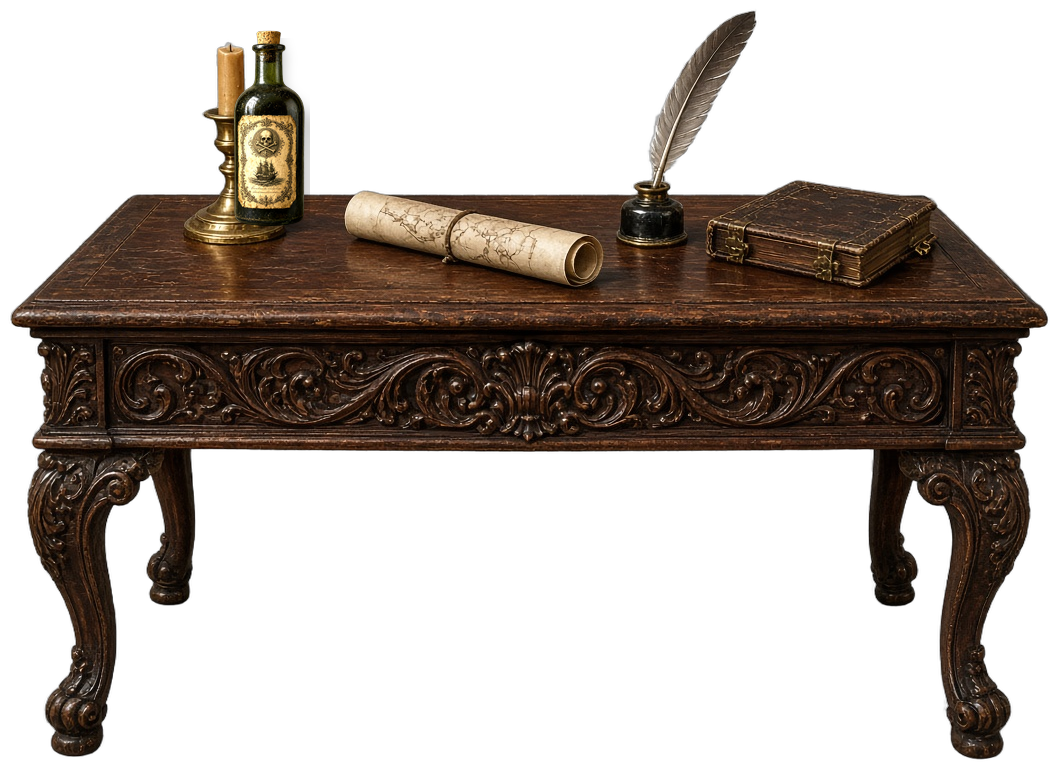
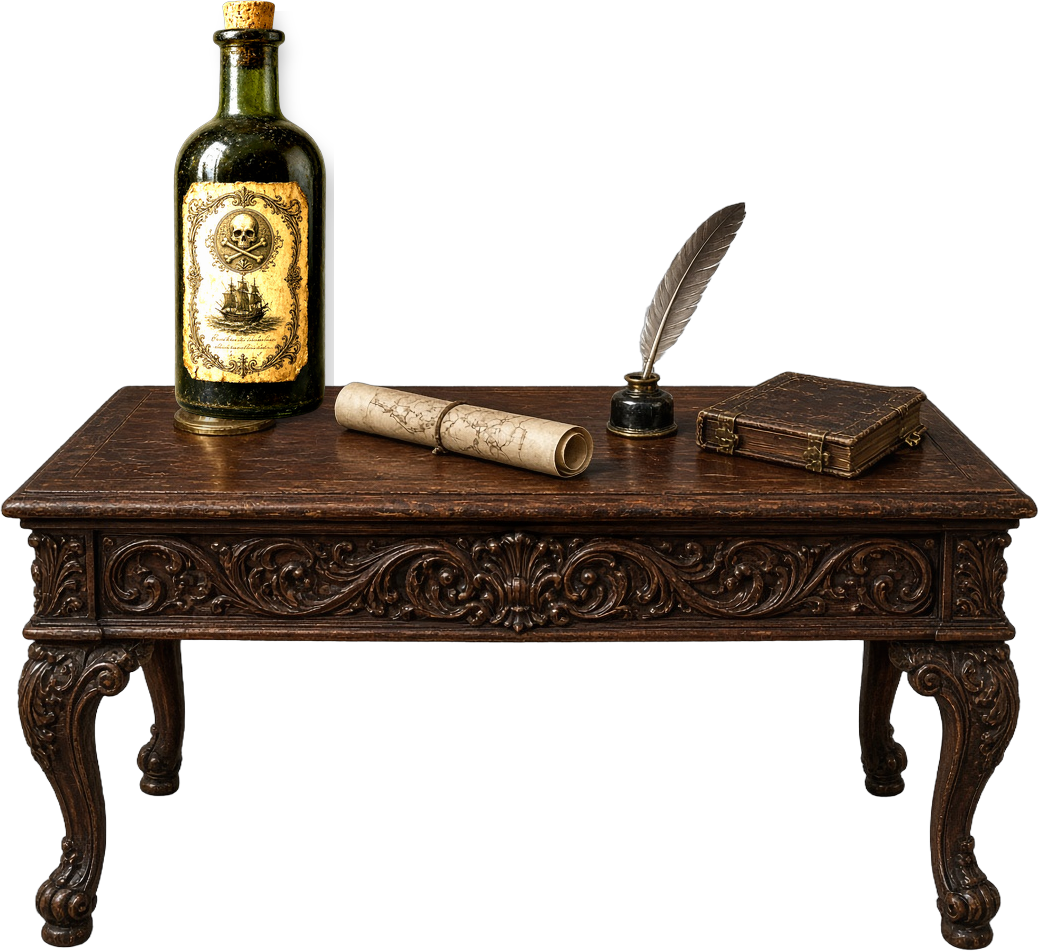
Make the rum bottle much larger on the cabin desk
Expand the desk cutout so a taller bottle sits clearly
on the desktop, and bump desk scale in the room.

diff --git a/pirates-cabin.html b/pirates-cabin.html
@@ -10,7 +10,7 @@
       href="https://fonts.googleapis.com/css2?family=Figtree:wght@400;500;600&family=Libre+Baskerville:ital,wght@0,400;0,700;1,400&family=Pirata+One&display=swap"
       rel="stylesheet"
     />
-    <link rel="stylesheet" href="pirate-treasures.css?v=76" />
+    <link rel="stylesheet" href="pirate-treasures.css?v=77" />
   </head>
   <body class="pirate-page cabin-page">
     <header class="cabin-hud">
@@ -63,7 +63,7 @@
           <div class="cabin-face cabin-face-ceiling" aria-hidden="true"></div>
           <div class="cabin-prop cabin-prop-desk" aria-hidden="true">
             <img
-              src="images/cabin-captain-desk.png?v=4"
+              src="images/cabin-captain-desk.png?v=6"
               alt=""
               draggable="false"
             />

diff --git a/pirate-treasures.css b/pirate-treasures.css
@@ -267,7 +267,7 @@ body.pirate-page {
   --desk-z: -0.42;
   --desk-rx: 7.5deg;
   --desk-rz: 0deg;
-  --desk-scale: 0.34;
+  --desk-scale: 0.38;
   width: calc(var(--cabin-w) * var(--desk-scale));
   transform-origin: 50% 100%;
   transform: translate(-50%, -100%)
